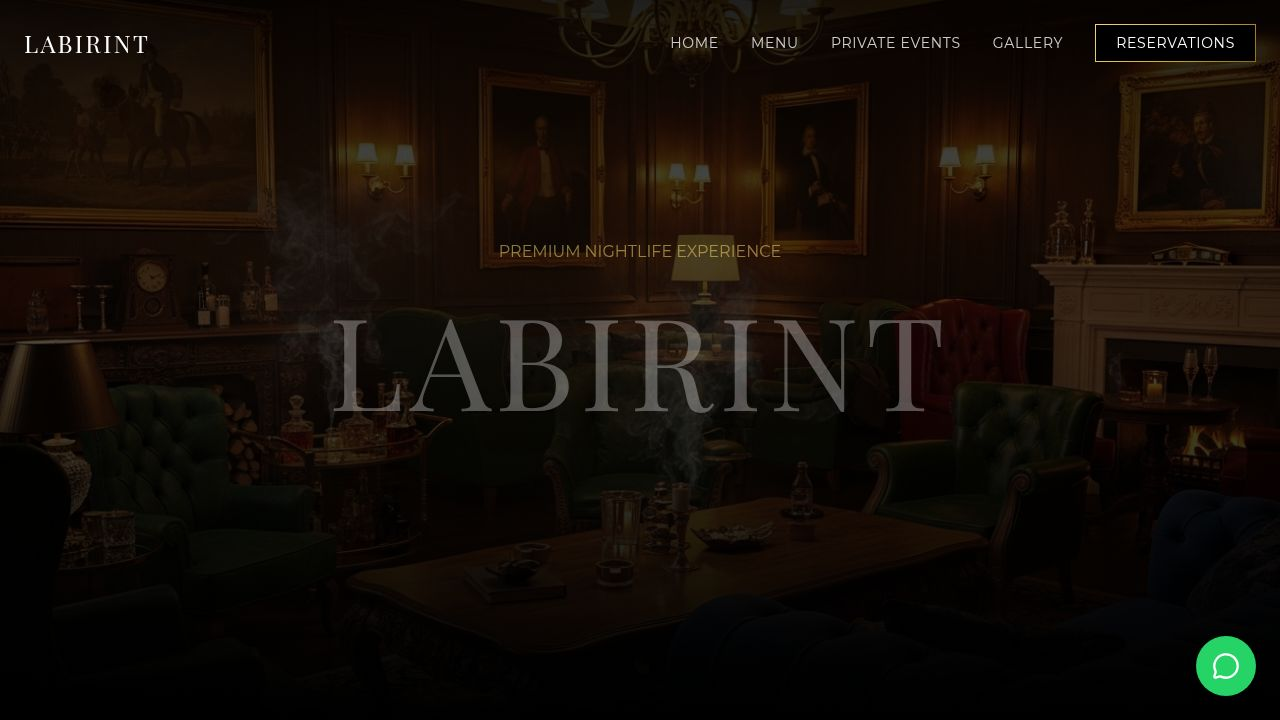
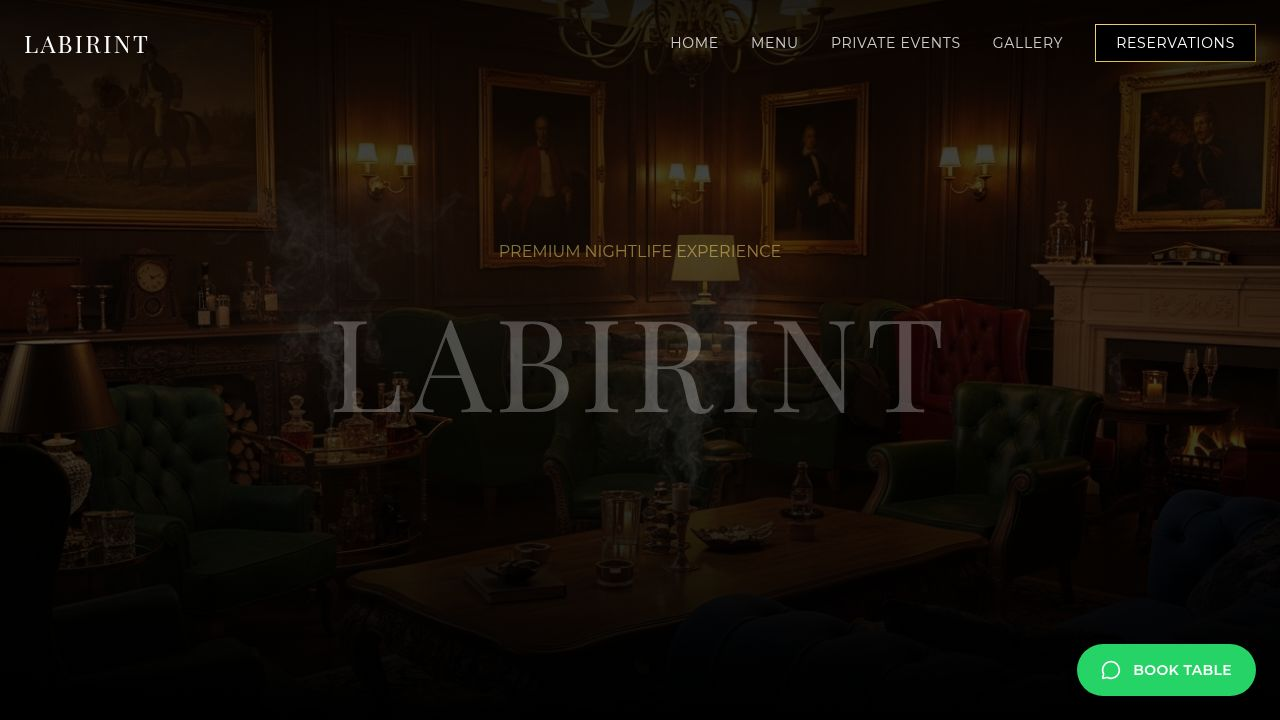
Add text and styling to the floating WhatsApp booking button
Update the Layout component to include "Book Table" text and adjust styling for the floating WhatsApp button.

Replit-Commit-Author: Agent
Replit-Commit-Session-Id: 1c769bca-8d5b-4b9a-91dd-3cafd12d824b
Replit-Commit-Checkpoint-Type: full_checkpoint
Replit-Commit-Event-Id: 95e8a814-8fe5-434a-9c10-5df89923aeca
Replit-Commit-Screenshot-Url: https://storage.googleapis.com/screenshot-production-us-central1/8fe8d19e-4c75-40aa-8266-94245efbf8a8/1c769bca-8d5b-4b9a-91dd-3cafd12d824b/mxwY83d
Replit-Helium-Checkpoint-Created: true

diff --git a/client/src/components/Layout.tsx b/client/src/components/Layout.tsx
@@ -103,10 +103,11 @@ export default function Layout({ children }: { children: React.ReactNode }) {
       {/* Floating WhatsApp Button */}
       <a
         href="#"
-        className="fixed bottom-6 right-6 z-50 bg-[#25D366] text-white p-4 rounded-full shadow-lg hover:bg-[#20bd5a] transition-colors hover:scale-110 duration-300"
-        aria-label="Contact on WhatsApp"
+        className="fixed bottom-6 right-6 z-50 bg-[#25D366] text-white px-6 py-4 rounded-full shadow-lg hover:bg-[#20bd5a] transition-colors hover:scale-110 duration-300 flex items-center gap-3 font-semibold tracking-wide text-sm uppercase"
+        aria-label="Book Table on WhatsApp"
       >
-        <MessageCircle size={28} />
+        <MessageCircle size={20} />
+        <span>Book Table</span>
       </a>
     </div>
   );
